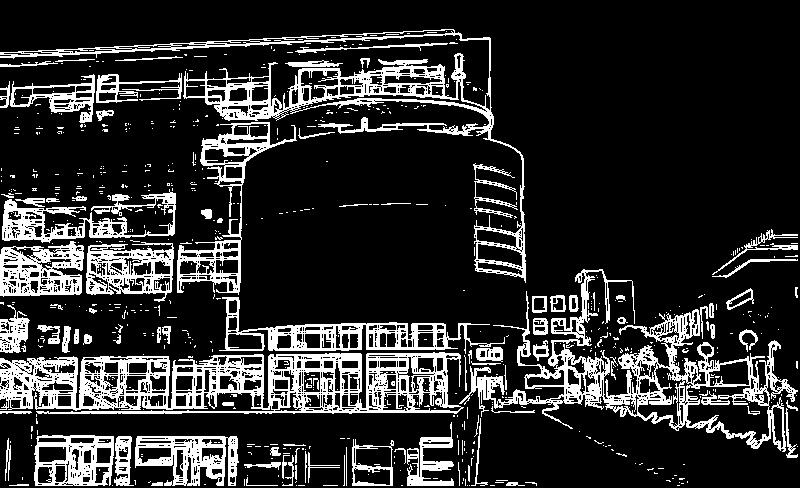
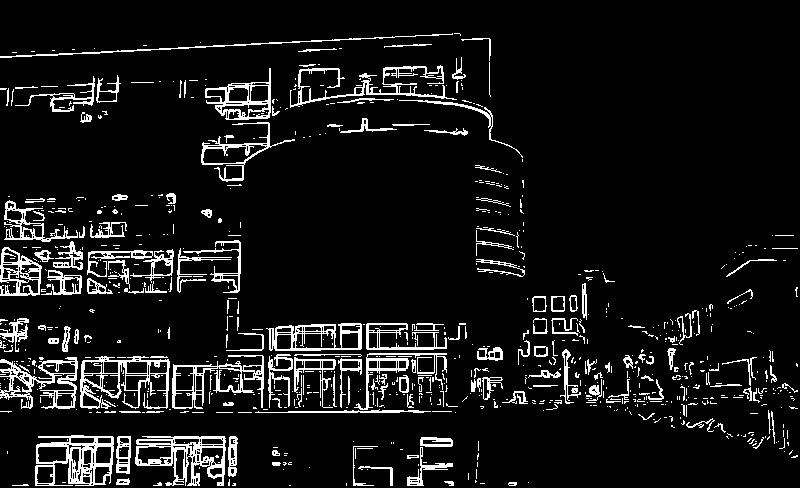
commit

diff --git a/Assignment2/Filter.py b/Assignment2/Filter.py
@@ -1,23 +1,13 @@
 import cv2
 import numpy as np
-from scipy import signal
-from scipy import misc
-
-from HelperFunctions import filter2D, smoothFilter2D
-
-
+from HelperFunctions import filter2D, smoothFilter2D, calc_sobel_kernel
 
 
 # imgPath = input("Enter a Picture Path")
 imgPath = 'CuteBuilding.jpg'
 
-
 # Read the original image
-img = cv2.imread(imgPath,0)
-
-
-
-
+img = cv2.imread(imgPath, 0)
 
 # Display original image
 cv2.imshow('Original', img)
@@ -25,47 +15,45 @@ cv2.waitKey(0)
 cv2.destroyAllWindows()
 img = np.float64(img)
 
-#Choosing Mode
-mode=input("Choose number for mode between \n 1)edge detection \n 2)smoothing\n")
-#Choosing kernel size:
-kerSize=int(input("Enter the kernel size from 3,5,7,9 : "))    
-if mode=='2':
 
-    kernel = np.ones((kerSize,kerSize))
+# Choosing Mode
+mode = input(
+    "Choose number for mode between \n 1)edge detection \n 2)smoothing\n")
+
+# Choosing kernel size:
+kerSize = int(input("Enter the kernel size from 3,5,7,9 : "))
+
+img = cv2.copyMakeBorder(img, 0, kerSize//2, 0, kerSize//2,
+                         borderType=cv2.BORDER_CONSTANT, value=0)
+
+# smoothing
+if mode == '2':
+    kernel = np.ones((kerSize, kerSize))
     kernel = kernel/np.sum(kernel)
-    output = smoothFilter2D(img,kernel)
-    
-    cv2.imwrite('smoothed_img.jpg',output)
+    output = smoothFilter2D(img, kernel)
+
+    cv2.imwrite('smoothed_img.jpg', output)
     output = np.uint8(output)
-    cv2.imshow('smoothed',output)
+    cv2.imshow('smoothed', output)
     cv2.waitKey(0)
     cv2.destroyAllWindows()
-elif mode=='1':
-    #Edge detection
-    threshold = int(input("Please choose option number:\n1)no threshold\n2)threshold 140\n3)threshold 200\n"))
-    if threshold not in [1,2,3]:
+
+# Edge detection
+elif mode == '1':
+    threshold = int(input(
+        "Please choose option number:\n1)no threshold\n2)threshold 100\n3)threshold 200\n"))
+    if threshold not in [1, 2, 3]:
         print("You chose Wrong!")
-    if kerSize==3:
-        kerX=np.array([[-1, 0 ,1],
-                        [-2, 0, 2],
-                        [-1, 0, 1]])
 
-        kerY=np.array([[1, 2, 1],
-                        [0, 0, 0],
-                        [-1, -2, -1]])
-    elif kerSize==5:
-        kerX = np.array([[-2, -1, 0 ,1, 2],
-                         [-2, -1, 0 ,1, 2],
-                        [-4, -2, 0, 2, 4],
-                        [-2, -1, 0, 1, 2],
-                        [-2, -1, 0 ,1, 2]])
+    # calculate kernels
+    kerX, kerY = calc_sobel_kernel((kerSize, kerSize))
 
-    edge_detection_image = filter2D(img,kerX,kerY,threshold)
+    # convolution edge detection
+    edge_detection_image = filter2D(img, kerX, kerY, threshold)
 
-    
-    cv2.imwrite('edge_detection_image.jpg',edge_detection_image)
+    cv2.imwrite('edge_detection_image.jpg', edge_detection_image)
     edge_detection_image = edge_detection_image.astype(np.uint8)
-    cv2.imshow('Sobel Edge Detection',edge_detection_image)
+    cv2.imshow('Sobel Edge Detection', edge_detection_image)
     cv2.waitKey(0)
     cv2.destroyAllWindows()
 

diff --git a/Assignment2/HelperFunctions.py b/Assignment2/HelperFunctions.py
@@ -1,5 +1,4 @@
 import numpy as np
-import cv2
 
 def smoothFilter2D(img, kernelX):
     kerSize = len(kernelX)-1
@@ -13,13 +12,10 @@ def smoothFilter2D(img, kernelX):
                 for j in range(round(-kerSize/2), round(kerSize//2)+1):
                     val = img[y+i, x+j]
                     Gx += kernelX[round(kerSize/2)+i][round(kerSize/2)+j] * val
-            
-            # if sqrt<100:
-            #     sqrt = 0
-            # elif sqrt>150:
-            #     sqrt = 200
-            grad[round(y-kerSize/2),round(x-kerSize/2)] = Gx
+
+            grad[round(y-kerSize/2), round(x-kerSize/2)] = Gx
     return grad
+
 
 def filter2D(img, kernelX, kernelY, threshold):
     kerSize = len(kernelX)-1
@@ -34,22 +30,32 @@ def filter2D(img, kernelX, kernelY, threshold):
                     val = img[y+i, x+j]
                     Gx += kernelX[round(kerSize/2)+i][round(kerSize/2)+j] * val
                     Gy += kernelY[round(kerSize/2)+i][round(kerSize/2)+j] * val
-            
+
             calc = np.sqrt(Gx*Gx+Gy*Gy)
-            
-            #Thresholding
-            
-            if threshold==2:
-                if calc>100:
-                    calc=255
+
+            # Thresholding
+            if threshold == 2:
+                if calc > 100:
+                    calc = 255
                 else:
-                    calc=0
-            elif threshold==3:
-                if calc>200:
-                    calc=255
+                    calc = 0
+            elif threshold == 3:
+                if calc > 200:
+                    calc = 255
                 else:
-                    calc=0
-    
-            grad[round(y-kerSize/2),round(x-kerSize/2)] = calc
+                    calc = 0
+
+            grad[round(y-kerSize/2), round(x-kerSize/2)] = calc
     return grad
 
+
+def calc_sobel_kernel(target_shape: tuple[int, int]):
+    kerX = np.zeros(target_shape, dtype=np.float32)
+    kerY = np.zeros(target_shape, dtype=np.float32)
+    indices = np.indices(target_shape, dtype=np.float32)
+    cols = indices[0] - target_shape[0] // 2
+    rows = indices[1] - target_shape[1] // 2
+    squared = cols ** 2 + rows ** 2
+    np.divide(cols, squared, out=kerY, where=squared != 0)
+    np.divide(rows, squared, out=kerX, where=squared != 0)
+    return kerX, kerY

diff --git a/Assignment2/Tests.py b/Assignment2/Tests.py
@@ -1,0 +1,13 @@
+import numpy as np
+from scipy import signal
+from scipy import misc
+import cv2
+from HelperFunctions import calc_sobel_kernel
+
+kerX = np.array([[2, 0, 2],
+                 [4, 0, 5],
+                 [1, 0, 10]])
+
+#print(kerX*kerX)
+
+print(calc_sobel_kernel((3,3)))

diff --git a/Assignment2/tempCodeRunnerFile.py b/Assignment2/tempCodeRunnerFile.py
@@ -1,1 +1,1 @@
-x_wise+y_wise
+>
